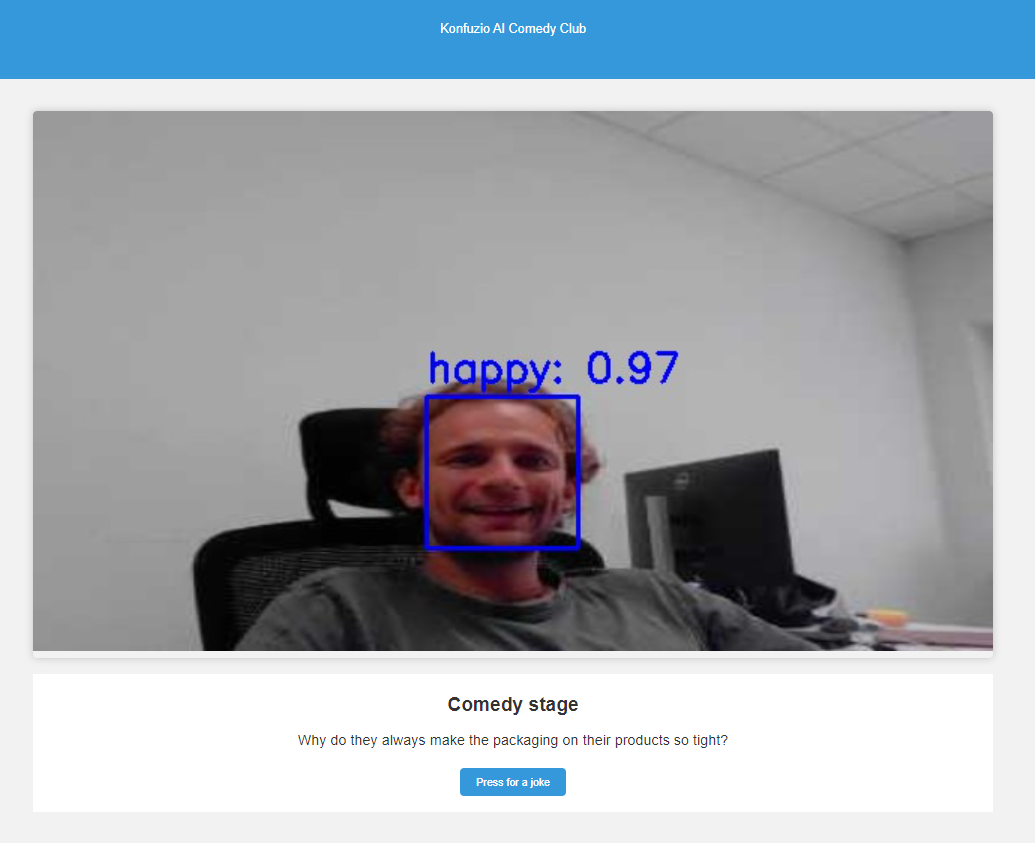
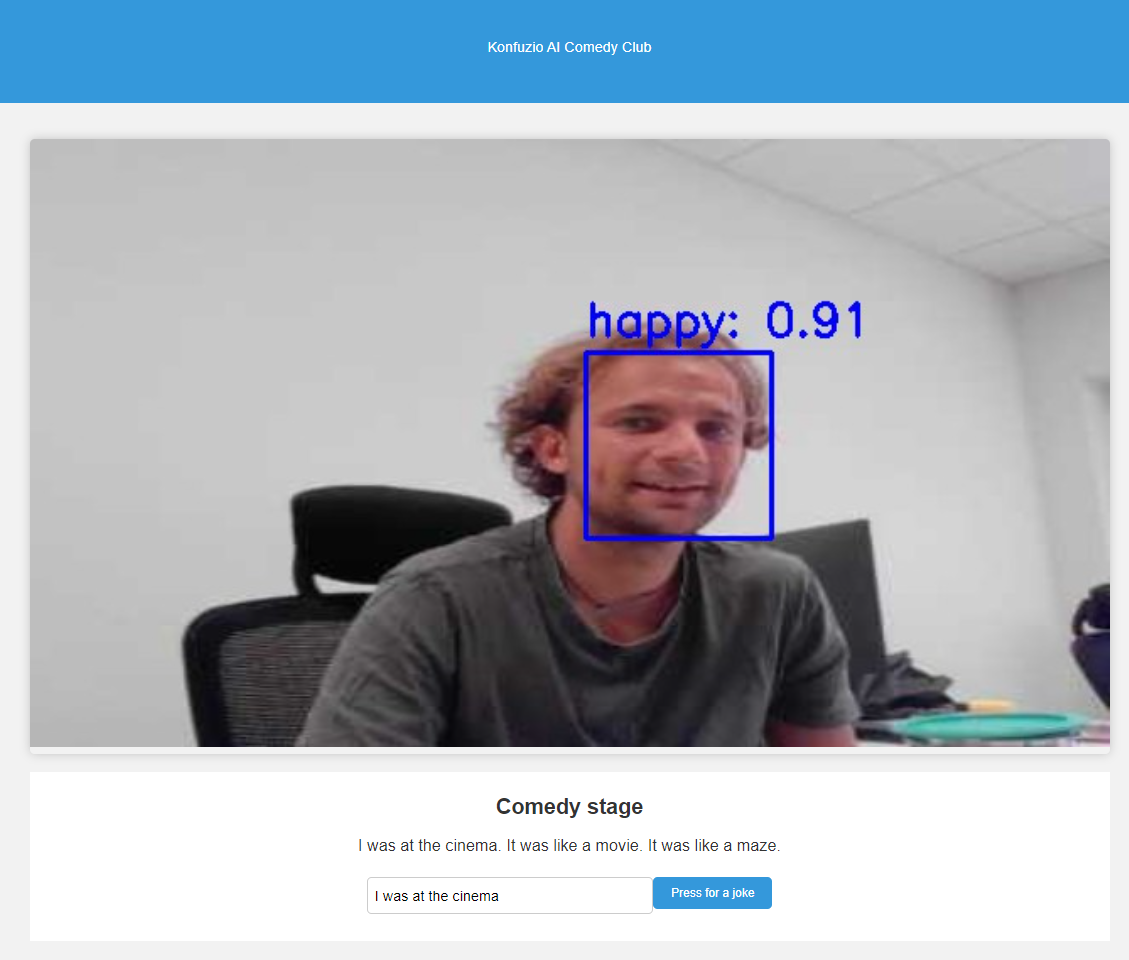
added user interaction, user can propose a start of the joke

diff --git a/bots/seinfeld_ai/ComedyClubStage/templates/index.html b/bots/seinfeld_ai/ComedyClubStage/templates/index.html
@@ -12,26 +12,29 @@
   <script>
     $(function () {
       // Function to fetch the joke using async/await
-      async function fetchJoke() {
+      async function fetchJoke(userInput) {
         try {
-          // Make the AJAX GET request to the Flask backend
-          const response = await $.getJSON('/background_process_test');
+          // Make the AJAX GET request to the Flask backend with user input as a query parameter
+          const response = await $.getJSON('/joke_generator', { input: userInput });
           return response.joke; // Return the joke data
         } catch (error) {
           console.error('Error fetching the joke:', error);
           return null; // Return null in case of an error
         }
       }
-
-      // Attach a click event handler to the button with ID "test"
-      $('#test').on('click', async function (e) {
-        e.preventDefault(); // Prevent the default behavior of the link
-
+  
+      // Attach a click event handler to the button with ID "generate"
+      $('#generate').on('click', async function (e) {
+        e.preventDefault(); // Prevent the default behavior of the button
+  
         console.log('Button clicked!');
-
-        // Fetch the joke using the async function
-        const joke = await fetchJoke();
-
+  
+        // Get the user input from the text box
+        const userInput = $('#userInput').val();
+  
+        // Fetch the joke using the async function and pass the user input
+        const joke = await fetchJoke(userInput);
+  
         // Update the "joker" paragraph with the joke text
         $('#joker').text(joke || 'Failed to fetch the joke.');
       });
@@ -64,7 +67,9 @@
       <h3>Comedy stage</h3>
       <p id="joker"></p>
       <form>
-        <a href=# id=test><button class='btn btn-default'>Press for a joke</button></a>
+        <input type="text" id="userInput" class="user-input" placeholder="How should Ii start my next joke?">
+        <br><br>
+        <a href=# id=generate><button class='btn btn-default'>Press for a joke</button></a>
       </form>
     </div>
 

diff --git a/bots/seinfeld_ai/ComedyClubStage/templates/static/styles.css b/bots/seinfeld_ai/ComedyClubStage/templates/static/styles.css
@@ -60,6 +60,15 @@ html, body, h1, h2, h3, p, ul, li {
     text-align: center;
   }
   
+  .user-input {
+    padding: 8px;
+    border: 1px solid #ccc;
+    border-radius: 5px;
+    font-size: 16px;
+    width: 300px;
+    margin-bottom: 10px;
+  }
+
   h3 {
     font-size: 24px;
     color: #333;

diff --git a/bots/seinfeld_ai/joke_bot.py b/bots/seinfeld_ai/joke_bot.py
@@ -44,12 +44,16 @@ class SeinfeldAI:
         print()
         print(hello_string[random.randint(0, len(hello_string)-1)])
 
-    def generate(self, max_length=None):
+    def generate(self, max_length=None, starting_string=None):
         
-        starting_idx = random.randint(0, len(self.starting_strings)-1)
-        joke = self.starting_strings[starting_idx]
+        if not starting_string:
+            starting_idx = random.randint(0, len(self.starting_strings)-1)
+            joke = self.starting_strings[starting_idx]
+        else:
+            joke = starting_string
+            
         if not max_length:
-            max_length = random.randint(100,400)
+                max_length = random.randint(100,400)
         
         joke = self.joke_generator(joke, max_length=max_length, do_sample=False)[0]['generated_text']
         
@@ -131,9 +135,9 @@ class Bot:
         
         pass
     
-    def tell_joke(self):
+    def tell_joke(self, starting_string=None):
         
-        return self.joker.generate()
+        return self.joker.generate(starting_string=starting_string)
     
     def rate_joke(self, joke):
         

diff --git a/bots/seinfeld_ai/ComedyClubStage/app.py b/bots/seinfeld_ai/ComedyClubStage/app.py
@@ -10,7 +10,7 @@ app = Flask(__name__, static_folder="./templates/static")
 app.config["SECRET_KEY"] = "secret!"
 socketio = SocketIO(app, async_mode="eventlet")
 
-from flask import jsonify
+from flask import request, jsonify
 
 from fer import FER
 detector = FER()
@@ -107,9 +107,11 @@ def index():
     return render_template("index.html", joke=joke)
 
 
-@app.route('/background_process_test')
-def background_process_test():
-    joke = Seinfeld.tell_joke()
+@app.route('/joke_generator')
+def joke_generator():
+    user_input = request.args.get('input')
+    print(user_input)
+    joke = Seinfeld.tell_joke(user_input)
     print(joke)
     return jsonify(joke=joke)
 
